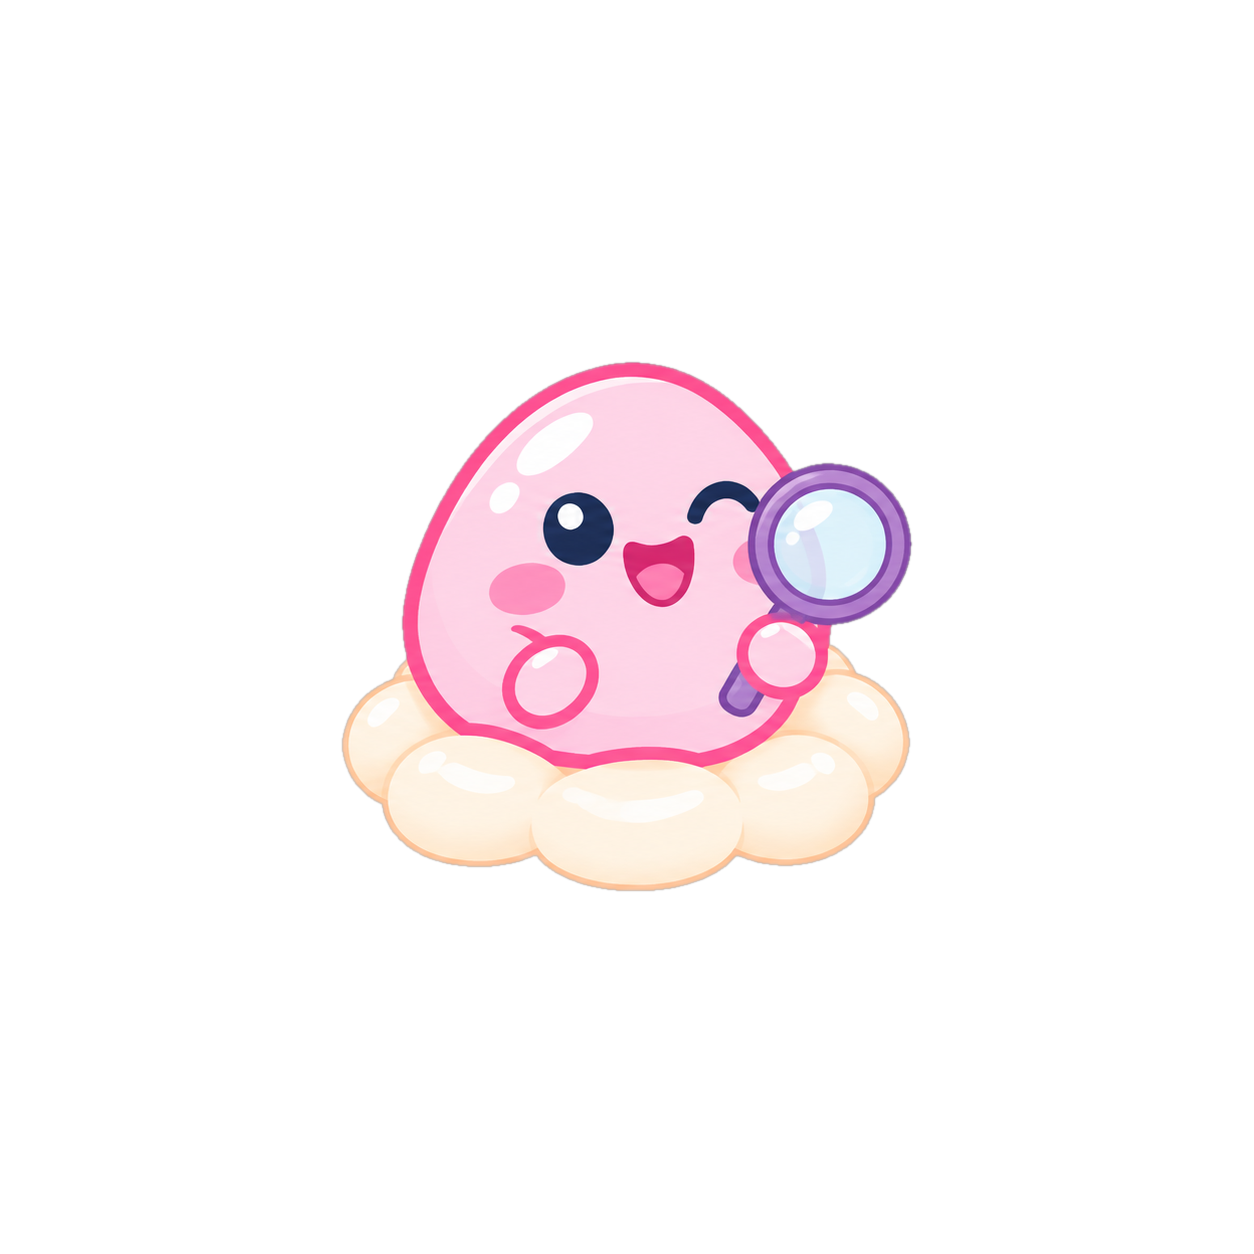
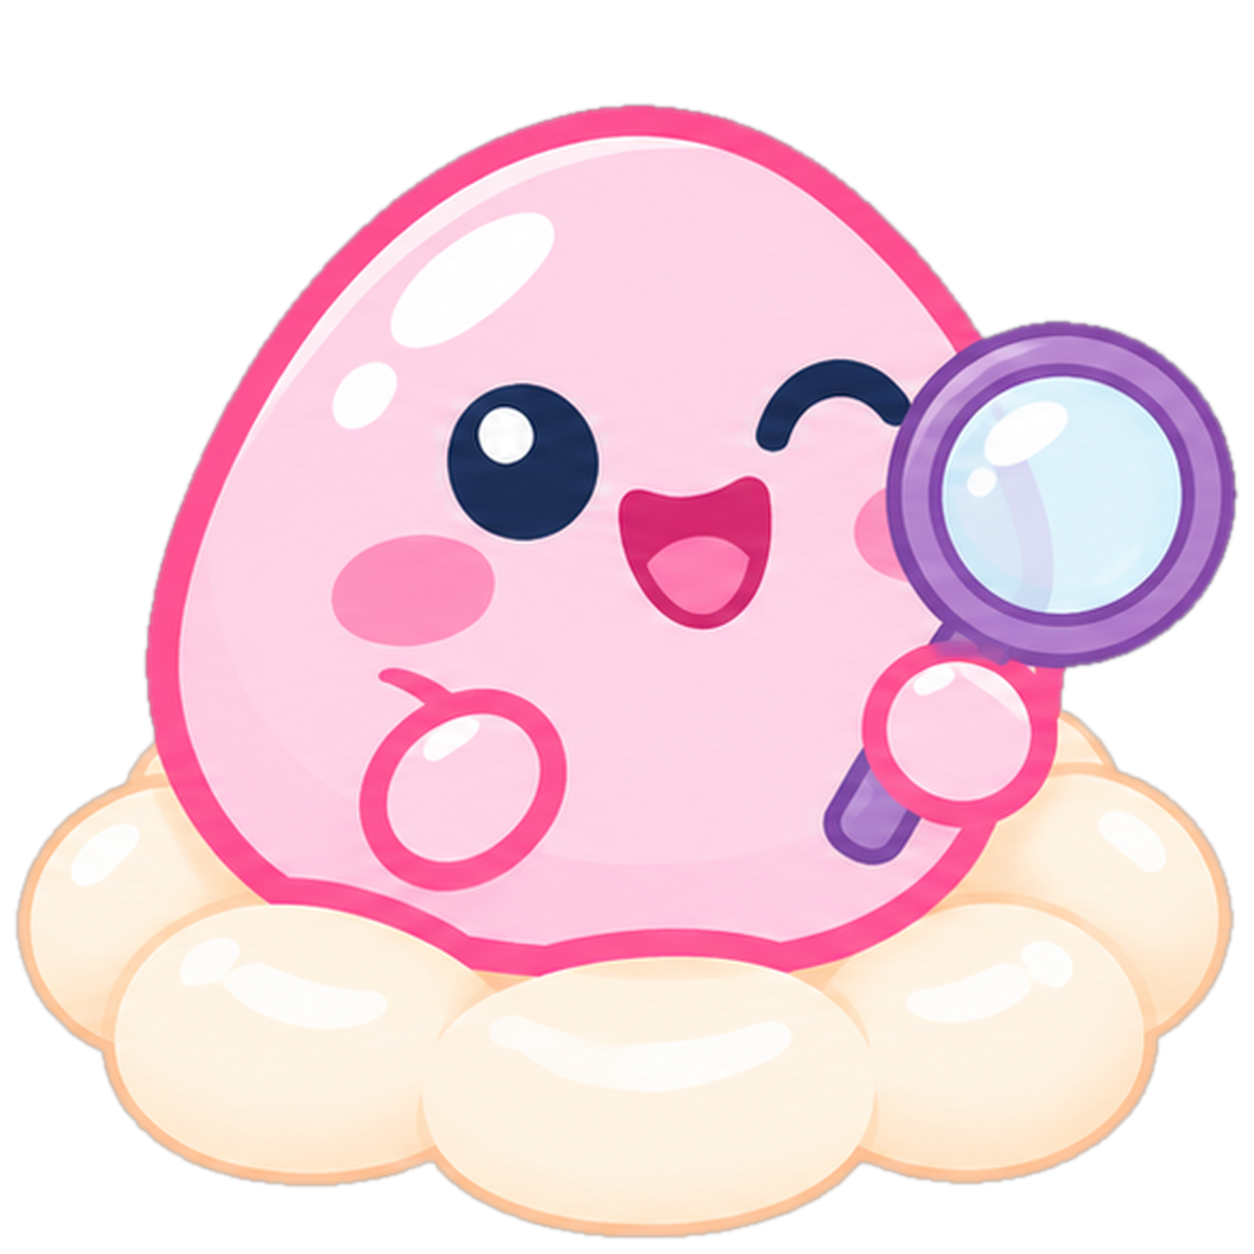
404: bigger new mascot, no sparkle
- not-found-mascot.png: the magnifying-glass Mochi now fills the square like the old art did
- NotFoundPage: white sparkle star next to the mascot removed

Claude-Session: https://claude.ai/code/session_01ToUdgrAjtHUxi377A78jyL

diff --git a/src/features/landing/components/NotFoundPage.tsx b/src/features/landing/components/NotFoundPage.tsx
@@ -3,7 +3,7 @@ import Link from "next/link";
 import { useLocale, useTranslations } from "next-intl";
 import { Button } from "@/features/landing/components/shared/Button";
 import { AppStoreBadge } from "@/features/landing/components/shared/AppStoreBadges";
-import { Petal, Rays, Sparkle } from "@/features/landing/components/shared/decor";
+import { Petal, Rays } from "@/features/landing/components/shared/decor";
 import { PosterStage } from "@/features/landing/components/shared/PosterStage";
 import { SiteHeader } from "@/features/landing/components/shared/SiteHeader";
 import { LANDING_ASSETS } from "@/features/landing/content/assets";
@@ -46,7 +46,6 @@ export function NotFoundPage() {
                   ?
                 </span>
                 <Rays shape="hero" className="absolute -left-20 top-22 z-3 w-42 text-sun max-poster:-left-[24px] max-poster:top-[32px] max-poster:w-[38px] max-phone:-left-[17px] max-phone:top-[28px] max-phone:w-[30px]" />
-                <Sparkle className="absolute -right-12 top-12 z-3 w-34 text-white max-poster:-right-[18px] max-poster:top-[20px] max-poster:w-[32px] max-phone:-right-[12px] max-phone:top-[18px] max-phone:w-[24px]" />
                 <Image
                   className="relative h-auto w-full [filter:drop-shadow(0_calc(9*var(--spacing))_calc(10*var(--spacing))_var(--color-hero-title-shadow))]"
                   src={LANDING_ASSETS.notFoundMascot}
